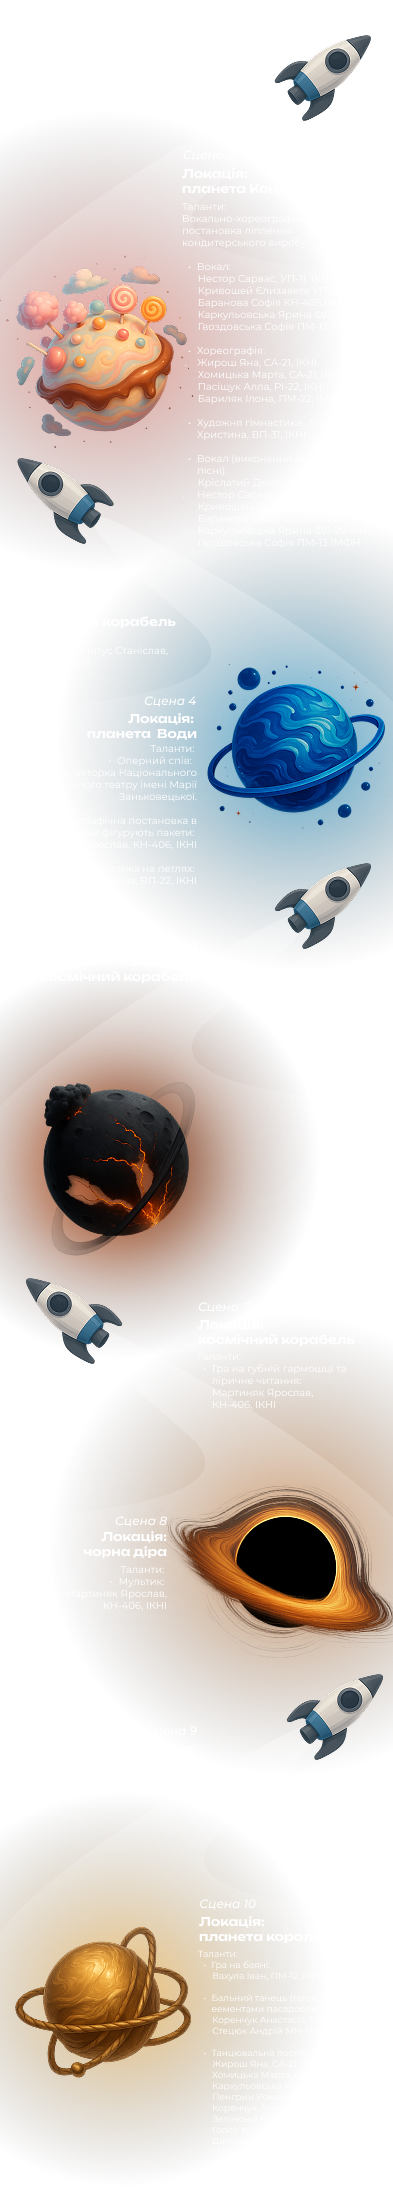
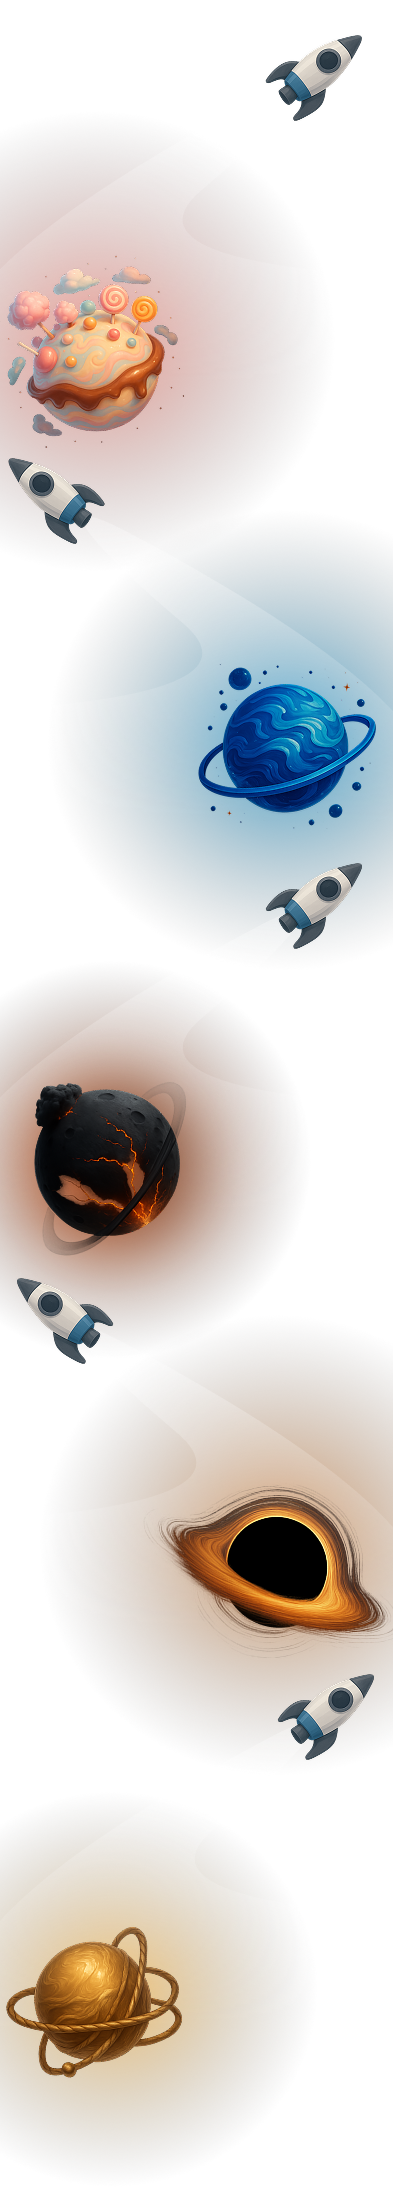
i want to sleep

diff --git a/src/pages/PlanetsPage/PlanetsPage.tsx b/src/pages/PlanetsPage/PlanetsPage.tsx
@@ -1,6 +1,6 @@
 import Starts from "../../assets/stars_black_background.png";
 import Background from "../../assets/bg.png";
-import BackgroundMobile from "../../assets/bg-mobile.png"
+import BackgroundMobile from "../../assets/bg_phone.png"
 import RunningRow from "../RunningRow.tsx";
 import CharactersSlider from "../CharactersSlider.tsx";
 import BottomNav from "../BottomNav.tsx";
@@ -33,17 +33,179 @@ const PlanetsPage = () => {
 
     <RunningRow text={" Вистава в сценах Вистава в сценах Вистава в сценах Вистава в сценах Вистава в сценах Вистава в сценах Вистава в сценах "} key={3}></RunningRow>
 
-    <img
-      src={bg}
-      alt="Background"
-      className="w-full"
-    />
+    {!isMobile &&
+        <img
+            src={bg}
+            alt="Background"
+            className="w-full"
+        />
+    }
 
-      <RunningRow text={"Команда"}></RunningRow>
-      <TeamList></TeamList>
-      <BottomNav />
+    {isMobile &&
+
+    <div
+        className="w-full bg-cover bg-center leading-tight bg-no-repeat text-[12px]"
+        style={{backgroundImage: `url(${bg})`}}
+    >
+
+      <div className={"text-white mt-10 flex flex-col justify-center items-end w-[50%]"}>
+        <h2 className={'italic text-[12px]'} style={{fontFamily: 'Montserrat, sans-serif'}}>Сцена 1</h2>
+        <h1 className={"font-bold leading-tight"} style={{ fontFamily: 'Unbounded, sans-serif' }}>Локація:</h1>
+        <h1 className={"font-bold leading-tight"} style={{ fontFamily: 'Unbounded, sans-serif' }}>космічний корабель</h1>
+      </div>
+
+      <div className="text-white mt-10 flex flex-col w-[50%] ml-auto mr-4">
+        <h2 className={'italic text-[12px]'} style={{fontFamily: 'Montserrat, sans-serif'}}>Сцена 2</h2>
+        <h1 className="font-bold leading-tight" style={{ fontFamily: 'Unbounded, sans-serif' }}>Локація:<br/> планета Кондитерська</h1>
+
+        <div className={"mr-2 text-[10px]"} style={{fontFamily: 'Montserrat, sans-serif'}}>
+          <p>Таланти:</p>
+          <p className={"mb-2"}>Вокально-хореографічна постановка ліплення кондитерського виробу:</p>
+          <div className={"ml-3"}>
+            <p className={"mb-2"}>
+              Вокал: <br/>
+              Нестор Сарвас, УП-11, ІКНІ <br/>
+              Кривошей Єлизавета УП-41 ІКНІ <br/>
+              Баранова Софія КН-405 ІКНІ <br/>
+              Каркульовська Ярина ФЛ-26 ІКНІ <br/>
+              Гвоздовська Софія ПМ-13 ІМФН</p>
+            <p className={"mb-2"}>Хореографія:<br/>
+              Жирош Яна, СА-21, ІКНІ<br/>
+              Хомицька Марта, СА-21, ІКНІ<br/>
+              Пасіщук Алла, РІ-22, ІКНІ<br/>
+              Бариляк Ілона, ПМ-22, ІМФН</p>
+            <p className={"mb-2"}>Художня гімнастика: Гопяк Христина, ВП-31, ІКНІ
+            </p>
+            <p className={"mb-2"}>Вокал (виконання авторської пісні):<br/>
+              Кріслатий Дмитро, ПМ-43, ІМФН;<br/>
+              Нестор Сарвас, УП-11, ІКНІ;<br/>
+              Кривошей Єлизавета УП-41 ІКНІ;<br/>
+              Баранова Софія КН-405 ІКНІ;<br/>
+              Каркульовська Ярина ФЛ-26 ІКНІ;<br/>
+              Гвоздовська Софія ПМ-13 ІМФН</p>
+          </div>
+        </div>
+
+      </div>
+
+      <div className={"text-white flex mt-20 flex-col ml-5 w-[50%]"}>
+        <h2 className={'italic text-[12px]'} style={{fontFamily: 'Montserrat, sans-serif'}}>Сцена 3</h2>
+        <h1 className={"font-bold leading-tight"} style={{ fontFamily: 'Unbounded, sans-serif' }}>Локація:</h1>
+        <h1 className={"font-bold leading-tight"} style={{ fontFamily: 'Unbounded, sans-serif' }}>космічний корабель</h1>
+        <p className={"text-[10px]"} style={{fontFamily: 'Montserrat, sans-serif'}}>
+          Таланти:<br/>
+          <span className={"ml-2"}>
+          Бітбокс: Мінтус Станіслав,</span> <br/>
+          <span className={"ml-2"}>ПЗ-33, ІКНІ</span>
+        </p>
+      </div>
+
+      <div className={"text-white mt-10 flex flex-col justify-center items-end w-[50%]"}>
+        <h2 className={'italic text-[12px]'} style={{fontFamily: 'Montserrat, sans-serif'}}>Сцена 4</h2>
+        <h1 className={"font-bold leading-tight"} style={{ fontFamily: 'Unbounded, sans-serif' }}>Локація:</h1>
+        <h1 className={"font-bold leading-tight"} style={{ fontFamily: 'Unbounded, sans-serif' }}>планета Води</h1>
+
+        <div className="flex flex-col items-end text-[10px] w-full text-right"
+             style={{fontFamily: 'Montserrat, sans-serif'}}>
+          <p>Таланти:</p>
+          <p>Оперний спів:</p>
+          <p className="mb-1">Жанна, акторка Національного драматичного театру імені Марії Заньковецької.</p>
+          <p className="mb-1">
+            Хореографічна постановка в якій фігурують пакети:
+            Мартиняк Ярослав, КН-406, ІКНІ
+          </p>
+          <p className="mb-1">
+            Гімнастика на петлях: <br/>
+            Бойчук Ганна, ВП-22, ІКНІ
+          </p>
+        </div>
+      </div>
+
+
+      <div className={"text-white mt-10 flex flex-col justify-center items-end w-[50%]"}>
+        <h2 className={'italic text-[12px]'} style={{fontFamily: 'Montserrat, sans-serif'}}>Сцена 5</h2>
+        <h1 className={"font-bold"} style={{ fontFamily: 'Unbounded, sans-serif' }}>Локація: </h1>
+        <h1 className={"font-bold"} style={{ fontFamily: 'Unbounded, sans-serif' }}>космічний корабель</h1>
+      </div>
+
+      <div className="text-white mt-16 flex flex-col w-[50%] ml-auto ">
+        <h2 className={'italic text-[12px]'} style={{fontFamily: 'Montserrat, sans-serif'}}>Сцена 6</h2>
+        <h1 className="font-bold leading-tight" style={{ fontFamily: 'Unbounded, sans-serif' }}>Локація:<br/> планета темряви</h1>
+      </div>
+
+      <div className="text-white mt-32 flex flex-col w-[50%] ml-auto ">
+        <h2 className={'italic text-[12px]'} style={{fontFamily: 'Montserrat, sans-serif'}}>Сцена 7</h2>
+        <h1 className="font-bold leading-tight" style={{ fontFamily: 'Unbounded, sans-serif' }}>Локація:<br/> космічний корабель</h1>
+
+        <p className={"text-[10px]"} style={{fontFamily: 'Montserrat, sans-serif'}}>Таланти:
+          <br/> Гра на губній гармошці та
+          <br/> ліричне читання:
+          <br/> Мартиняк Ярослав,
+          <br/> КН-406, ІКНІ</p>
+      </div>
+
+
+      <div className={"text-white mt-24 flex flex-col items-end w-[40%]"}>
+        <h2 className={'italic text-[12px]'} style={{fontFamily: 'Montserrat, sans-serif'}}>Сцена 8</h2>
+        <h1 className={"font-bold leading-tight"} style={{ fontFamily: 'Unbounded, sans-serif' }}>Локація:</h1>
+        <h1 className={"font-bold leading-tight"} style={{ fontFamily: 'Unbounded, sans-serif' }}>чорна діра</h1>
+
+        <p className={"text-[10px] text-right w-full"} style={{fontFamily: 'Montserrat, sans-serif'}}>Таланти:
+          <br/> Мультик:
+          <br/> Мартиняк Ярослав,
+          <br/> КН-406, ІКНІ</p>
+      </div>
+
+      <div className="text-white mt-32 flex flex-col justify-center items-end w-[50%]">
+        <h2 className={'italic text-[12px]'} style={{fontFamily: 'Montserrat, sans-serif'}}>Сцена 9</h2>
+        <h1 className="font-bold leading-tight text-right" style={{ fontFamily: 'Unbounded, sans-serif' }}>Локація:</h1>
+        <h1 className="font-bold leading-tight text-right" style={{ fontFamily: 'Unbounded, sans-serif' }}>космічний корабель</h1>
+      </div>
+
+
+      <div className="text-white mt-20 flex flex-col w-[50%] ml-auto mr-4">
+        <h2 className={'italic text-[12px]'} style={{fontFamily: 'Montserrat, sans-serif'}}>Сцена 10</h2>
+        <h1 className="font-bold leading-tight" style={{ fontFamily: 'Unbounded, sans-serif' }}>Локація:<br/> планета королеви</h1>
+
+        <div className={"mr-2 text-[10px]"} style={{fontFamily: 'Montserrat, sans-serif'}}>
+          <p>Таланти:</p>
+          <p className={"mb-2"}>Вокально-хореографічна постановка ліплення кондитерського виробу:</p>
+          <div className={"ml-3"}>
+            <p className={"mb-2"}>
+              Гра на баяні:<br/>
+              Вахула Іван, ПМ-12, ІМФН</p>
+            <p className={"mb-2"}>Бальний танець (танго з еементами пасадоблю):<br/>
+              Коренчук Анастасія, ПМ-31, ІМФН;<br/>
+              Стецюк Андрій МН-31 ІКТЕ</p>
+            <p className={"mb-2"}>Художня гімнастика: Гопяк Христина, ВП-31, ІКНІ
+            </p>
+            <p className={"mb-2"}>Танцювальна постановка:<br/>
+              Жирош Яна, СА-21, ІКНІ<br/>
+              Хомицька Марта, СА-21, ІКНІ<br/>
+              Каркульовська Ярина, ФЛ-26, ІКНІ<br/>
+              Пенгрин Романа, ПТ-32, ІСТР<br/>
+              Коренчук Анастасія, ПМ-31, ІМФН<br/>
+              Зелінська Єлизавета, ОІ-32, ІКНІ<br/>
+              Гопяк Христина, ВП-31, ІКНІ<br/>
+              Данилець Анастасія, МІ-41, ІМФН<br/>
+              Пасіщук Алла, РІ-22, ІКНІ<br/>
+              Бариляк Ілона, ПМ-22, ІМФН</p>
+            <p className={"mb-2"}>Постановщик:<br/>
+              Алфавіцька Марта, ФЛ-43, ІКНІ</p>
+          </div>
+        </div>
+
+      </div>
+
+    </div>
+    }
+
+    <RunningRow
+        text={" Команда Команда Команда Команда Команда Команда Команда Команда Команда Команда Команда Команда Команда Команда "}></RunningRow>
+    <TeamList></TeamList>
+    <BottomNav/>
   </div>
-);
+  );
 };
 
 export default PlanetsPage;

diff --git a/index.html b/index.html
@@ -6,6 +6,7 @@
     <link href="https://fonts.googleapis.com/css2?family=Play:wght@400;500&display=swap" rel="stylesheet">
     <meta name="viewport" content="width=device-width, initial-scale=1.0" />
     <link href="https://fonts.googleapis.com/css2?family=Pixelify+Sans:wght@700&&family=Montserrat:ital,wght@0,100..900;1,100..900&family=Unbounded:wght@200..900&display=swap" rel="stylesheet">
+    <link href="https://fonts.googleapis.com/css2?family=Montserrat:wght@400;600;700&family=Unbounded:wght@400;700&display=swap" rel="stylesheet">
     <title>SPRING OF POLYTECHNIC</title>
   </head>
   <body>

diff --git a/src/data/program.ts b/src/data/program.ts
@@ -32,3 +32,4 @@ export const Characters: Character[] = [
         img: dima
     },
 ]
+
